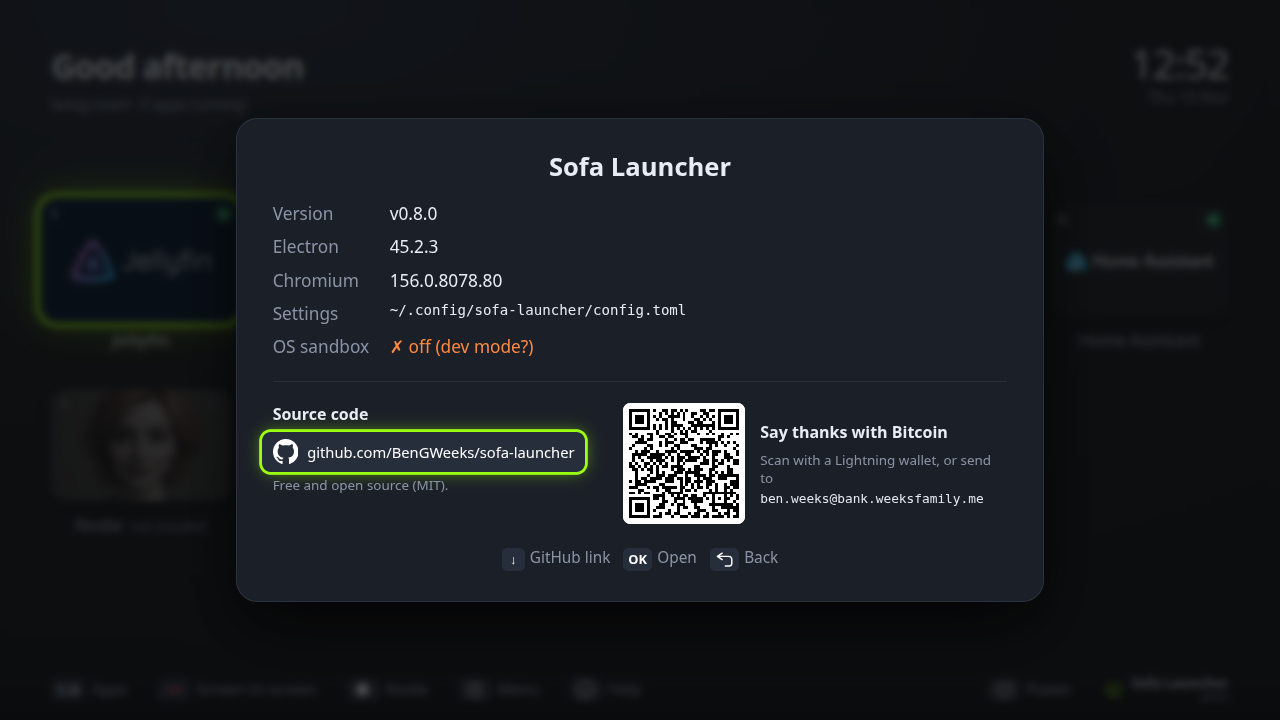
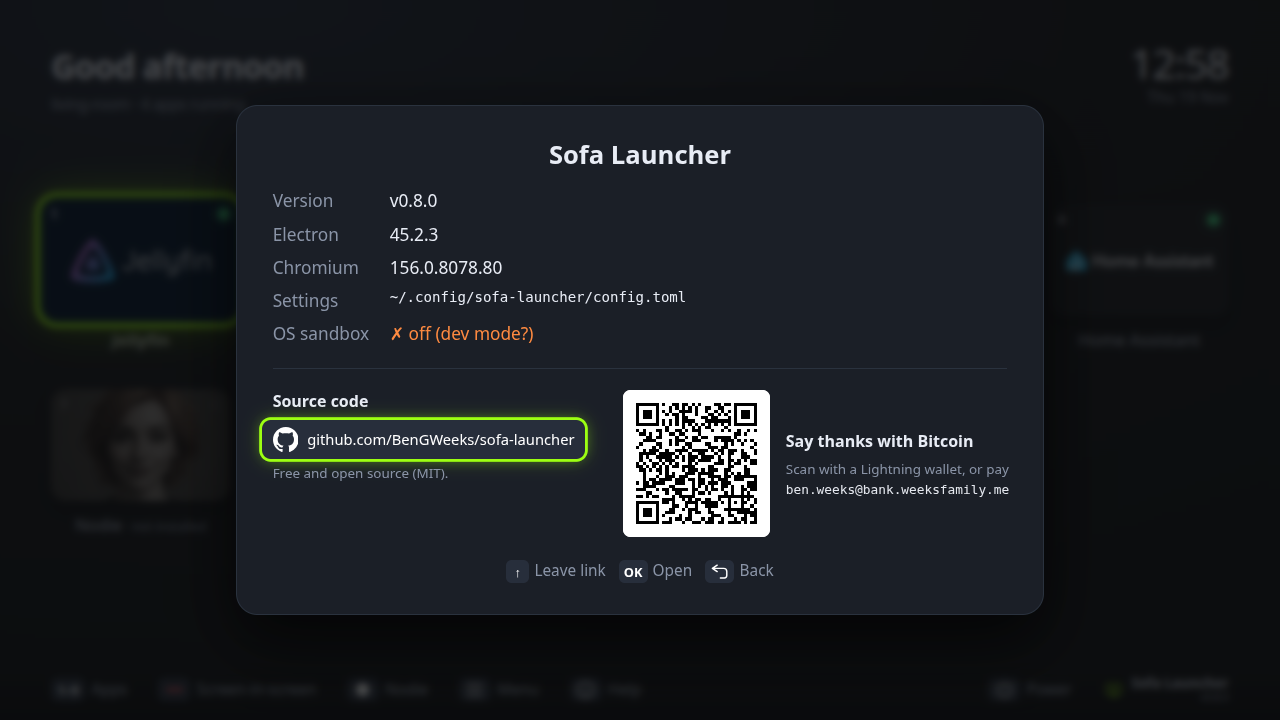
About and tile growth: fixes from review
- Rows keep the grown tile clear of their edges (padding and scroll-padding just
  wider than the growth), so its ring is never cut; the wrapped Games row's
  edge fade no longer dims it
- QR code: a full four-module quiet zone, and larger
- About hints say Up leaves the link; shorter wording beside the QR code

Claude-Session: https://claude.ai/code/session_01FYobGTgadq6BHtfAUaqb4P

diff --git a/src/renderer/src/App.svelte b/src/renderer/src/App.svelte
@@ -292,22 +292,23 @@
   .row { margin-top: 7rem; display: grid; grid-template-columns: repeat(6, 1fr); gap: 3rem 1.6rem; }
   /* Two or three rows (Apps plus Games and/or Cameras): each is one line that scrolls sideways,
      and the focus ring sits inside the tile so the scrolling row can never clip it. */
-  .rows .row { grid-template-columns:none; grid-auto-flow:column; grid-auto-columns:calc((100% - 7.6rem) / 5); gap:1.6rem; overflow-x:auto; scrollbar-width:none; padding:1rem .6rem; margin-top:2rem; }
+  .rows .row { grid-template-columns:none; grid-auto-flow:column; grid-auto-columns:calc((100% - 7.6rem) / 5); gap:1.6rem; overflow-x:auto; scrollbar-width:none; padding:1rem .7rem; scroll-padding-inline:.7rem; margin-top:2rem; }
   .rows h2 + .row { margin-top:0; }
-  /* The highlighted tile still grows a little: the row's padding has room for 8%, not the grid's 12%. */
+  /* The highlighted tile still grows a little (8%, not the grid's 12%): the row's side padding, kept
+     clear by scroll-padding, is just wider than the growth, so the ring is never cut at the edge. */
   .rows .row :global(.focused .tile) { transform:scale(1.08); box-shadow:none; --inner-ring:block; }
   /* With games, rows keep the focused tile clear of the edges (scroll-padding) and fade tiles
      that are only partly in view, like the slide-up panel; the negative margin keeps alignment. */
   .has-games .row { padding:1rem 1.6rem; margin-inline:-1rem; scroll-padding-inline:1.6rem;
-                    mask-image:linear-gradient(90deg, transparent 0, #000 1rem, #000 calc(100% - 1rem), transparent 100%); }
+                    mask-image:linear-gradient(90deg, transparent 0, #000 .4rem, #000 calc(100% - .4rem), transparent 100%); }
   /* Three rows: smaller tiles so everything fits on a 16:9 screen above the footer. */
   .compact .row { grid-auto-columns:calc((100% - 5 * 1.2rem - 1rem) / 6); gap:1.2rem; padding-block:.7rem .5rem; margin-top:1.2rem; }
   .compact .row :global(.slot) { --ts:.8; }
   .compact .row :global(.camera) { width:2.9rem; height:2.9rem; }
   .compact h2 { margin-top:.5rem; font-size:1.25rem; }
   /* Games, no cameras: the plain home's six-column Apps grid, closer to the header, then the
-     Games row lined up with it and scrolling sideways. Both use the inner focus ring (no scaling),
-     so the scrolling row can't clip it and the two rows look alike. */
+     Games row lined up with it and scrolling sideways. Both use the inner focus ring and a small growth (8%),
+     which the scrolling row has room for and the two rows look alike. */
   .wrapped .row { margin-top:1rem; gap:1rem 1.6rem; padding:.5rem 1rem; margin-inline:-1rem; }
   .wrapped .game-row { grid-template-columns:none; grid-auto-flow:column; grid-auto-columns:calc((100% - 5 * 1.6rem) / 6);
                        overflow-x:auto; scrollbar-width:none; scroll-padding-inline:1rem; margin-top:.2rem;

diff --git a/src/renderer/src/lib/About.svelte b/src/renderer/src/lib/About.svelte
@@ -54,12 +54,12 @@
         <img src={donateQr} alt="QR code: pay {DONATE_ADDRESS} over Bitcoin Lightning" />
         <div>
           <h4>Say thanks with Bitcoin</h4>
-          <p class="small">Scan with a Lightning wallet, or send to</p>
+          <p class="small">Scan with a Lightning wallet, or pay</p>
           <p class="address">{DONATE_ADDRESS}</p>
         </div>
       </section>
     </div>
-    <p class="keys"><span class="k">↓</span>GitHub link<span class="k">OK</span>{onLink ? 'Open' : 'Close'}<span class="k"><RemoteIcon name="back" /></span>Back</p>
+    <p class="keys"><span class="k">{onLink ? '↑' : '↓'}</span>{onLink ? 'Leave link' : 'GitHub link'}<span class="k">OK</span>{onLink ? 'Open' : 'Close'}<span class="k"><RemoteIcon name="back" /></span>Back</p>
   </div>
 </div>
 
@@ -83,7 +83,7 @@
   .github.focused { box-shadow: 0 0 0 0.22rem var(--focus-ring), 0 0 1.2rem var(--accent-glow); }
   .donate { display: flex; align-items: center; gap: 1.2rem; }
   /* White with its own quiet zone: a QR code must stay dark-on-light to scan. */
-  .donate img { width: 9.5rem; height: 9.5rem; border-radius: 0.6rem; background: #fff; flex-shrink: 0; }
+  .donate img { width: 11.5rem; height: 11.5rem; border-radius: 0.6rem; background: #fff; flex-shrink: 0; }
   .small { margin: 0.35rem 0 0; font-size: 1.05rem; color: var(--muted); }
   .address { margin: 0.3rem 0 0; font-family: 'JetBrains Mono', 'DejaVu Sans Mono', monospace; font-size: 1rem; color: #e6e9f0; white-space: nowrap; }
   .keys { margin: 1.8rem 0 0; text-align: center; color: var(--muted); font-size: 1.2rem; }
